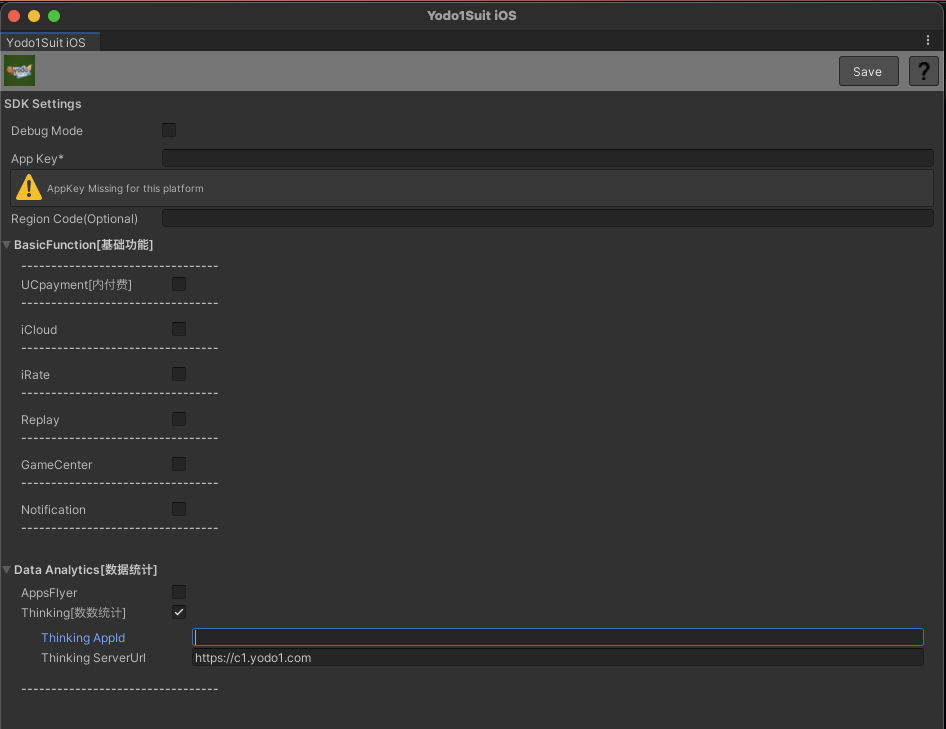
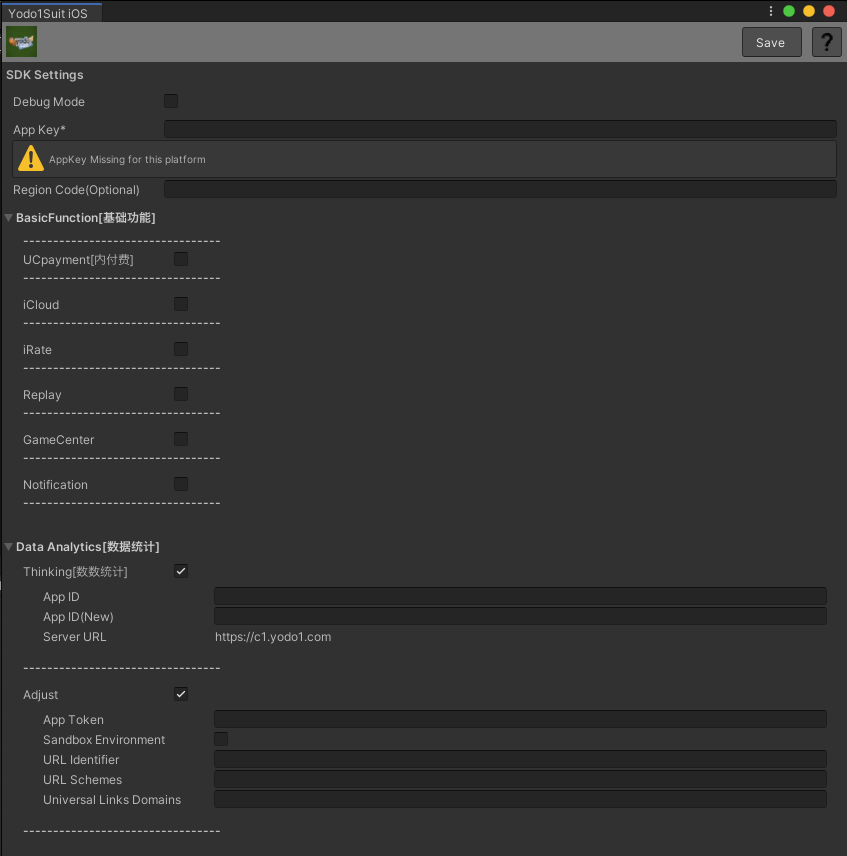
v6.3.11

Changed region(s): [[0.0, 0.0, 1.0, 1.0], [0.0, 0.6337, 0.3377, 0.9657], [0.2456, 0.7243, 0.3991, 0.7545]]

diff --git a/docs/en/unity/integration.md b/docs/en/unity/integration.md
@@ -21,9 +21,9 @@ And this page shows you how to download and set up Yodo1 Suit SDK in Unity.
 > - Android API 19 or above
 > - iOS API 11 or above
 
-## Download the Latest SDK(6.3.10)
+## Download the Latest SDK(6.3.11)
 
-You can download the Unity Plugin [via the link here](https://sdk-artifacts.yodo1.com/Yodo1Suit/6.3.10/Unity/Release/Yodo1Suit-6.3.10.unitypackage).
+You can download the Unity Plugin [via the link here](https://sdk-artifacts.yodo1.com/Yodo1Suit/6.3.11/Unity/Release/Yodo1Suit-6.3.11.unitypackage).
 
 ## iOS Configuration
 
@@ -39,9 +39,11 @@ You can download the Unity Plugin [via the link here](https://sdk-artifacts.yodo
 
 `iCloud(Optional)`: Enable this means you will use Yodo1's iCloud
 
-`Thinking AppId & Server URL(Optional)`: Enable data analytics and using Thinking service to collected user-level data and provide insights
+`Thinking AppId(Optional)`: Enable data analytics and using Thinking project to collected user-level data and provide insights
 
-`AppsFlyer(Optional)`: Enable it to use AppsFlyer
+`Thinking AppIdNew(Optional)`: Enable data analytics and using new Thinking project to collected user-level data and provide insights
+
+`Adjust(Optional)`: Enable it to use Adjust
 <!-- markdownlint-disable -->
 
 <figure> 
@@ -80,7 +82,7 @@ You need to add `user_frameworks!` to the podfile to use third-party Unity packa
 >* **Region Code**: You can get it from the Yodo1 team, which is optional
 >* **Publishing Store**: Please choice `GooglePlay` if your game is published on the Google Play store and uses Yodo's in-app purchase. Please choice `ChinaMainLand` if your game is published to the stores in China Mainland and contact the Yodo1 team for build
 >* **Thinking Data**: Please fill in app id of Thinking Data
->* **AppsFlyer** is optional
+>* **Adjust** is optional
 >* **Debug Mode**: Enable debug log, please turn it off when you publish your game to stores
 
 ### 2. AndroidX Support Config

diff --git a/docs/zh/unity/integration.md b/docs/zh/unity/integration.md
@@ -17,9 +17,9 @@
 > - Android API 19+
 > - iOS API 11+
 
-## 下载最新的SDK(6.3.10)
+## 下载最新的SDK(6.3.11)
 
-你可以点击这里下载[Unity插件](https://sdk-artifacts.yodo1.com/Yodo1Suit/6.3.10/Unity/Release/Yodo1Suit-6.3.10.unitypackage).
+你可以点击这里下载[Unity插件](https://sdk-artifacts.yodo1.com/Yodo1Suit/6.3.11/Unity/Release/Yodo1Suit-6.3.11.unitypackage).
 
 ## iOS配置
 
@@ -35,9 +35,11 @@
 
 `iCloud(Optional)`: 启用它意味着你将使用Yodo1的iCloud，这是可选的
 
-`Thinking AppId & Server URL(Optional)`: 使用Thinking service收集用户级数据
+`Thinking AppId(Optional)`: 使用 Thinking project 收集用户级数据
 
-`AppsFlyer(Optional)`: 使用AppsFlyer UA SDK
+`Thinking AppIdNew(Optional)`: 使用 New Thinking project 收集用户级数据
+
+`Adjust(Optional)`: 使用 Adjust UA SDK
 
 <!-- >* AppKey配置Yodo1 GameKey，RegionCode配置Yodo1 RegionCode（没有可以不用配置）
 >* 如果使share功能，请勾选`Share`，同时配置对应的appkey和link
@@ -85,8 +87,9 @@
 * `Publishing Store`: 发行商店选项
     * `GooglePlay`: 如果使用Google支付功能，请选择它
     * `ChinaMainLand`： 如果要构建中国应用商店包，请选择它, 并联系Yodo1团队进行PA打包
-* `Thinking AppId & Server URL(Optional)`: 使用Thinking service收集用户级数据
-* `AppsFlyer(Optional)`: 如果你的游戏需要UA，请勾选，配置对应的配置信息（AppsFlyer附加了deeplink功能，不使用可以不配置）
+* `Thinking AppId(Optional)`: 使用 Thinking project 收集用户级数据
+* `Thinking AppIdNew(Optional)`: 使用 New Thinking project 收集用户级数据
+* `Adjust(Optional)`: 如果你的游戏需要UA，请勾选，配置对应的配置信息
 
 ### 2. Android解析器设置
 

diff --git a/docs/zh/unity/modules/analyze.md b/docs/zh/unity/modules/analyze.md
@@ -7,6 +7,10 @@
 在用户进行登录时，可调用 login 来设置用户的账号 ID，在设置完账号 ID 后，将会以账号 ID 作为身份识别 ID.
 
 ``` c#
+Yodo1U3dAnalytics.login("Your Player ID");
+```
+
+``` c#
 Yodo1U3dUser user = new Yodo1U3dUser();
 user.playedId = "Your Player ID"
 Yodo1U3dAnalytics.login(user);

diff --git a/docs/en/unity/modules/analyze.md b/docs/en/unity/modules/analyze.md
@@ -5,6 +5,10 @@
 When a user logs in, login can be called to set the user's account ID. After setting the account ID, the account ID will be used as the identification ID.
 
 ``` c#
+Yodo1U3dAnalytics.login("Your Player ID");
+```
+
+``` c#
 Yodo1U3dUser user = new Yodo1U3dUser();
 user.playedId = "Your Player ID"
 user.** = "***"
